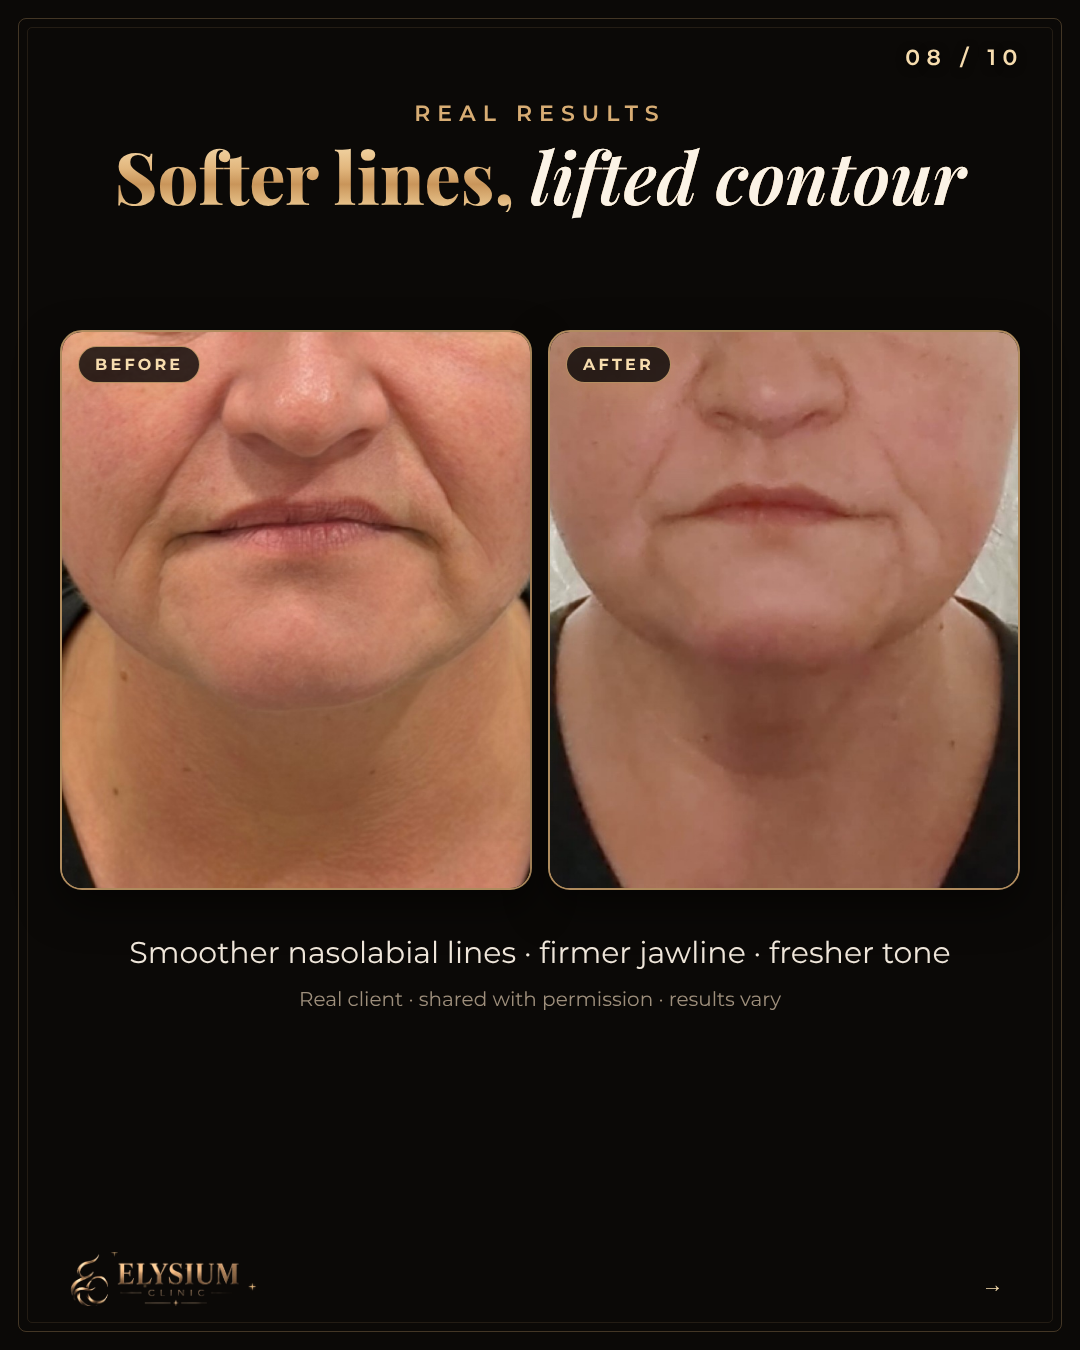
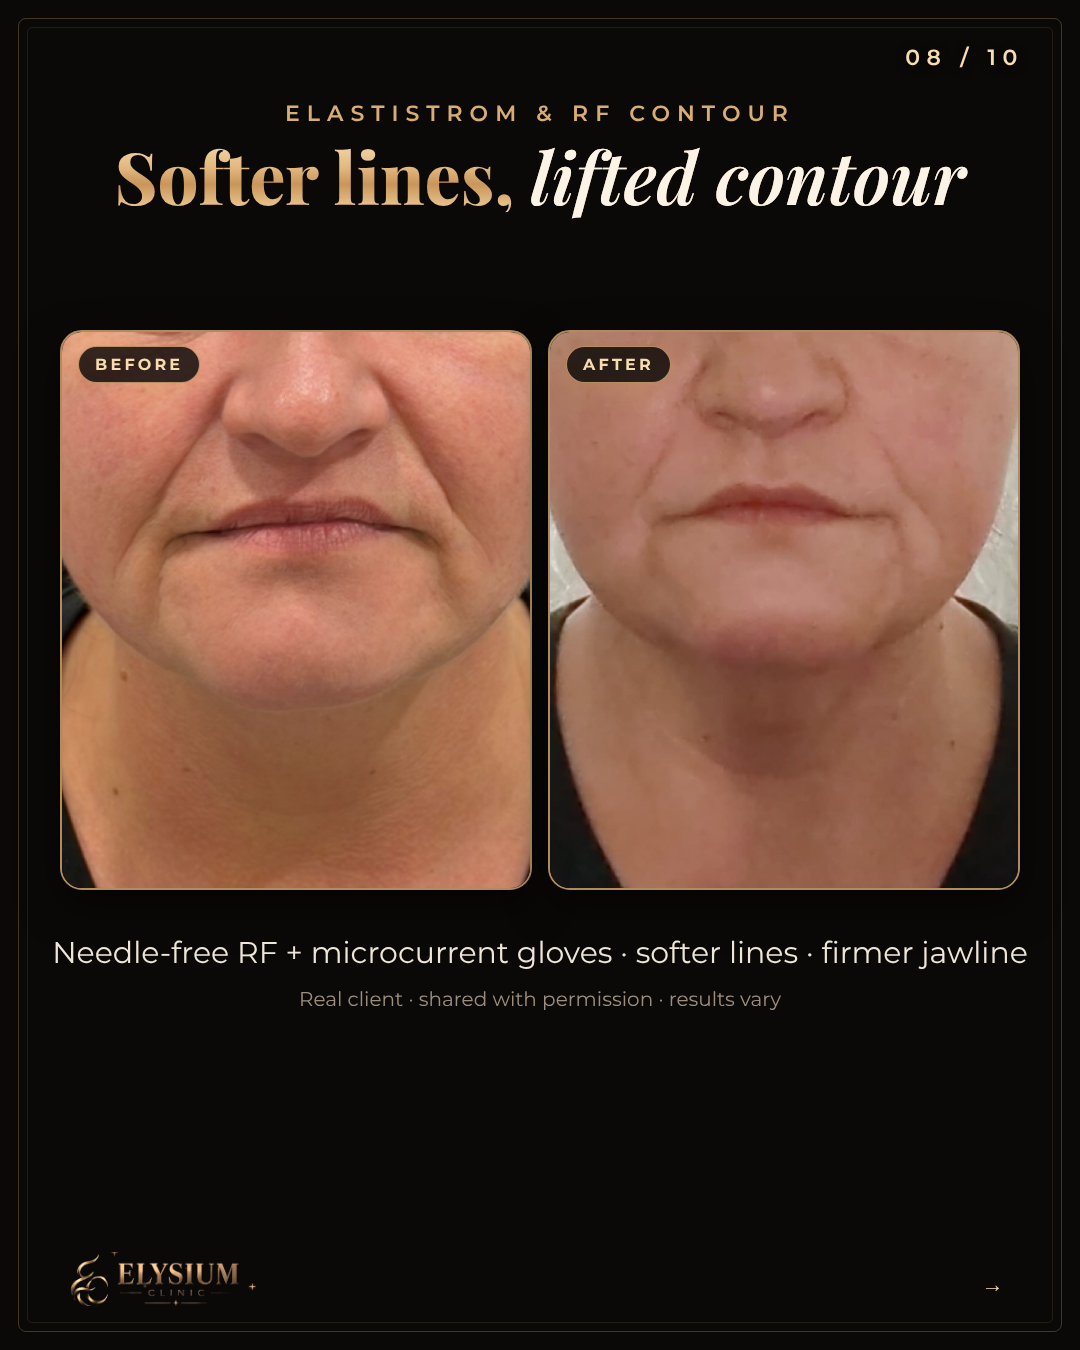
28.11: label slides 8-9 as ElastiStrom & RF Contour
Claude-Session: https://claude.ai/code/session_01SaUhS5EeEBn7oMfuXG8zXf

Changed region(s): [[0.0611, 0.6844, 0.9472, 0.7156], [0.3056, 0.0622, 0.6417, 0.0933], [0.6722, 0.0622, 0.7333, 0.0933]]

diff --git a/posts_28_11/src/p_8.html b/posts_28_11/src/p_8.html
@@ -25,6 +25,6 @@
 .stk .opts{display:flex;border-top:1px solid #ddd;margin-top:16px}
 .stk .opts div{flex:1;padding:18px 0 4px;font-size:28px;font-weight:700;background:linear-gradient(90deg,#c9955a,#e8b878);-webkit-background-clip:text;color:transparent}
 .stk .opts div+div{border-left:1px solid #ddd}
-</style></head><body><div class="c"><div class="deco"></div><div class="no">08 / 10</div><div style="position:absolute;top:100px;left:0;right:0;text-align:center"><div class="k">REAL RESULTS</div><div class="H goldtext" style="font-size:72px;margin-top:12px">Softer lines, <em>lifted contour</em></div></div>
+</style></head><body><div class="c"><div class="deco"></div><div class="no">08 / 10</div><div style="position:absolute;top:100px;left:0;right:0;text-align:center"><div class="k">ELASTISTROM &amp; RF CONTOUR</div><div class="H goldtext" style="font-size:72px;margin-top:12px">Softer lines, <em>lifted contour</em></div></div>
 <div class="pairs" style="position:absolute;left:60px;right:60px;top:330px;height:560px"><div class="ph2"><img src="d_b.jpg"><div class="tag pill tg">BEFORE</div></div><div class="ph2"><img src="d_a.jpg"><div class="tag pill tg">AFTER</div></div></div>
-<div style="position:absolute;left:0;right:0;top:930px;text-align:center"><div class="txt">Smoother nasolabial lines · firmer jawline · fresher tone</div><div class="fine2" style="margin-top:12px">Real client · shared with permission · results vary</div></div><div class="swipe">→</div><div class="lg"><img src="logo.png"></div></div></body></html>
+<div style="position:absolute;left:0;right:0;top:930px;text-align:center"><div class="txt">Needle-free RF + microcurrent gloves · softer lines · firmer jawline</div><div class="fine2" style="margin-top:12px">Real client · shared with permission · results vary</div></div><div class="swipe">→</div><div class="lg"><img src="logo.png"></div></div></body></html>

diff --git a/posts_28_11/src/p_9.html b/posts_28_11/src/p_9.html
@@ -25,6 +25,6 @@
 .stk .opts{display:flex;border-top:1px solid #ddd;margin-top:16px}
 .stk .opts div{flex:1;padding:18px 0 4px;font-size:28px;font-weight:700;background:linear-gradient(90deg,#c9955a,#e8b878);-webkit-background-clip:text;color:transparent}
 .stk .opts div+div{border-left:1px solid #ddd}
-</style></head><body><div class="c"><div class="deco"></div><div class="no">09 / 10</div><div style="position:absolute;top:100px;left:0;right:0;text-align:center"><div class="k">REAL RESULTS</div><div class="H goldtext" style="font-size:72px;margin-top:12px">Fresher, <em>firmer skin</em></div></div>
+</style></head><body><div class="c"><div class="deco"></div><div class="no">09 / 10</div><div style="position:absolute;top:100px;left:0;right:0;text-align:center"><div class="k">ELASTISTROM &amp; RF CONTOUR</div><div class="H goldtext" style="font-size:72px;margin-top:12px">Fresher, <em>firmer skin</em></div></div>
 <div class="pairs" style="position:absolute;left:60px;right:60px;top:330px;height:560px"><div class="ph2"><img src="e_b.jpg"><div class="tag pill tg">BEFORE</div></div><div class="ph2"><img src="e_a.jpg"><div class="tag pill tg">AFTER</div></div></div>
-<div style="position:absolute;left:0;right:0;top:930px;text-align:center"><div class="txt">More defined contour · even, radiant complexion</div><div class="fine2" style="margin-top:12px">Real client · shared with permission · results vary</div></div><div class="swipe">→</div><div class="lg"><img src="logo.png"></div></div></body></html>
+<div style="position:absolute;left:0;right:0;top:930px;text-align:center"><div class="txt">Needle-free RF + microcurrent gloves · more defined contour</div><div class="fine2" style="margin-top:12px">Real client · shared with permission · results vary</div></div><div class="swipe">→</div><div class="lg"><img src="logo.png"></div></div></body></html>

diff --git a/posts_28_11/src/build.py b/posts_28_11/src/build.py
@@ -80,12 +80,12 @@ P['p_10'] = post(10, T, '''<div style="position:absolute;top:120px;left:0;right:
 <div style="position:absolute;left:0;right:0;top:960px;text-align:center"><div class="txt">Book by <b>Monday 30.11</b> · use until <b>31 January</b></div>
 <div class="pill" style="margin-top:30px;font-size:28px;padding:20px 50px">SEND “BF” TO BOOK</div></div>''', blurbg('gabinet.jpg', 'center', .3))
 
-P['p_8'] = post(8, T, '''<div style="position:absolute;top:100px;left:0;right:0;text-align:center"><div class="k">REAL RESULTS</div><div class="H goldtext" style="font-size:72px;margin-top:12px">Softer lines, <em>lifted contour</em></div></div>
+P['p_8'] = post(8, T, '''<div style="position:absolute;top:100px;left:0;right:0;text-align:center"><div class="k">ELASTISTROM &amp; RF CONTOUR</div><div class="H goldtext" style="font-size:72px;margin-top:12px">Softer lines, <em>lifted contour</em></div></div>
 <div class="pairs" style="position:absolute;left:60px;right:60px;top:330px;height:560px"><div class="ph2"><img src="d_b.jpg"><div class="tag pill tg">BEFORE</div></div><div class="ph2"><img src="d_a.jpg"><div class="tag pill tg">AFTER</div></div></div>
-<div style="position:absolute;left:0;right:0;top:930px;text-align:center"><div class="txt">Smoother nasolabial lines · firmer jawline · fresher tone</div><div class="fine2" style="margin-top:12px">Real client · shared with permission · results vary</div></div><div class="swipe">→</div>''')
-P['p_9'] = post(9, T, '''<div style="position:absolute;top:100px;left:0;right:0;text-align:center"><div class="k">REAL RESULTS</div><div class="H goldtext" style="font-size:72px;margin-top:12px">Fresher, <em>firmer skin</em></div></div>
+<div style="position:absolute;left:0;right:0;top:930px;text-align:center"><div class="txt">Needle-free RF + microcurrent gloves · softer lines · firmer jawline</div><div class="fine2" style="margin-top:12px">Real client · shared with permission · results vary</div></div><div class="swipe">→</div>''')
+P['p_9'] = post(9, T, '''<div style="position:absolute;top:100px;left:0;right:0;text-align:center"><div class="k">ELASTISTROM &amp; RF CONTOUR</div><div class="H goldtext" style="font-size:72px;margin-top:12px">Fresher, <em>firmer skin</em></div></div>
 <div class="pairs" style="position:absolute;left:60px;right:60px;top:330px;height:560px"><div class="ph2"><img src="e_b.jpg"><div class="tag pill tg">BEFORE</div></div><div class="ph2"><img src="e_a.jpg"><div class="tag pill tg">AFTER</div></div></div>
-<div style="position:absolute;left:0;right:0;top:930px;text-align:center"><div class="txt">More defined contour · even, radiant complexion</div><div class="fine2" style="margin-top:12px">Real client · shared with permission · results vary</div></div><div class="swipe">→</div>''')
+<div style="position:absolute;left:0;right:0;top:930px;text-align:center"><div class="txt">Needle-free RF + microcurrent gloves · more defined contour</div><div class="fine2" style="margin-top:12px">Real client · shared with permission · results vary</div></div><div class="swipe">→</div>''')
 FB='Facebook recommendation'
 TR='Facebook recommendation · translated from Polish'
 P['p_2']=rev(2,T,[(REVIEW,'IZABELA B.',FB,48)])

diff --git a/posts_28_11/teksty.md b/posts_28_11/teksty.md
@@ -17,8 +17,8 @@ Słowa-klucze: **BF**, **VOUCHER**. Grafiki tylko po angielsku, w czarno-złotym
 5. Kinga K. (RF mikroigłowy) + Sylwia W. (efekt po pierwszym zabiegu) (tłum. z PL)
 6. RF Microneedling: przed / zaraz po
 7. Hydrogen Pure Glow: przed / po
-8. Real results: „Softer lines, lifted contour” (przed/po, kadr bez oczu)
-9. Real results: „Fresher, firmer skin” (przed/po, kadr bez oczu)
+8. ElastiStrom & RF Contour: „Softer lines, lifted contour” (przed/po, kadr bez oczu)
+9. ElastiStrom & RF Contour: „Fresher, firmer skin” (przed/po, kadr bez oczu)
 10. „Ready for your glow?” Ceny BF · Send “BF”
 
 ### Opis (EN)
@@ -28,6 +28,8 @@ Your skin, our proof ✨ Real words and real results from our clients 🤍 Swipe
 “My skin was dull and dry and after the treatment I feel a good change on my face.” Sobia I.
 “I can see a huge difference in my face since I started visiting Monika.” Weronika B.
 “I can see results after the very first treatment.” Sylwia W.
+
+Swipe to the end for ElastiStrom & RF Contour before & afters: softer lines and a lifted contour, with no needles 👀
 
 Thank you for every kind word, it means the world to us 🤍
 
